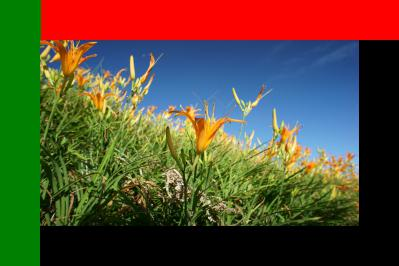
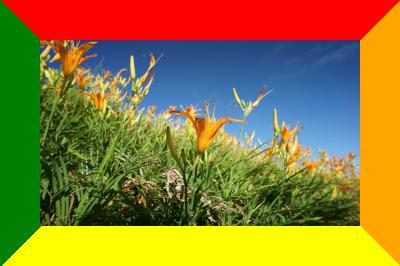
將邊框以梯形方式繪製

diff --git a/image.php b/image.php
@@ -70,7 +70,7 @@
             list($width, $height) = getimagesize($target_file);
 
             // 計算邊框的寬度，預設邊框寬度佔總寬度的10%
-            $border_size = round($width * 0.01);
+            $border_size = round($width * 0.05);
 
             // 縮小後的圖片大小應減去邊框的大小
             $new_width = round(($width * 0.5) - (2 * $border_size));
@@ -91,11 +91,57 @@
             $color_bottom = imagecolorallocate($bordered_image, 255, 255, 0); // 黃色
             $color_left = imagecolorallocate($bordered_image, 0, 128, 0);    // 綠色
 
-            // 填充邊框區域
-            imagefilledrectangle($bordered_image, 0, 0, $new_width + 2 * $border_size, $border_size, $color_top); // 上
-            imagefilledrectangle($bordered_image, $new_width + $border_size, 0, $new_width + 2 * $border_size, $new_height + 2 * $border_size, $color_right); // 右
-            imagefilledrectangle($bordered_image, 0, $new_height + $border_size, $new_width + 2 * $border_size, $new_height + 2 * $border_size, $color_bottom); // 下
-            imagefilledrectangle($bordered_image, 0, 0, $border_size, $new_height + 2 * $border_size, $color_left); // 左
+            // 繪製梯形邊框 (上)
+            $points_top = [
+                0,
+                0,                            // 左上角
+                $new_width + 2 * $border_size,
+                0,  // 右上角
+                $new_width + $border_size,
+                $border_size,  // 右下角（上邊框的底邊）
+                $border_size,
+                $border_size        // 左下角（上邊框的底邊）
+            ];
+            imagefilledpolygon($bordered_image, $points_top, 4, $color_top);
+
+            // 繪製梯形邊框 (右)
+            $points_right = [
+                $new_width + 2 * $border_size,
+                0,                          // 右上角
+                $new_width + 2 * $border_size,
+                $new_height + 2 * $border_size, // 右下角
+                $new_width + $border_size,
+                $new_height + $border_size,          // 左下角（右邊框的底邊）
+                $new_width + $border_size,
+                $border_size                      // 左上角（右邊框的底邊）
+            ];
+            imagefilledpolygon($bordered_image, $points_right, 4, $color_right);
+
+            // 繪製梯形邊框 (下)
+            $points_bottom = [
+                0,
+                $new_height + 2 * $border_size,                              // 左下角
+                $new_width + 2 * $border_size,
+                $new_height + 2 * $border_size, // 右下角
+                $new_width + $border_size,
+                $new_height + $border_size,            // 右上角（下邊框的頂邊）
+                $border_size,
+                $new_height + $border_size                        // 左上角（下邊框的頂邊）
+            ];
+            imagefilledpolygon($bordered_image, $points_bottom, 4, $color_bottom);
+
+            // 繪製梯形邊框 (左)
+            $points_left = [
+                0,
+                0,                          // 左上角
+                $border_size,
+                $border_size,     // 右上角（左邊框的底邊）
+                $border_size,
+                $new_height + $border_size, // 右下角（左邊框的底邊）
+                0,
+                $new_height + 2 * $border_size   // 左下角
+            ];
+            imagefilledpolygon($bordered_image, $points_left, 4, $color_left);
 
             // 將縮小的圖片複製到帶邊框的圖片中
             imagecopy($bordered_image, $thumb, $border_size, $border_size, 0, 0, $new_width, $new_height);
